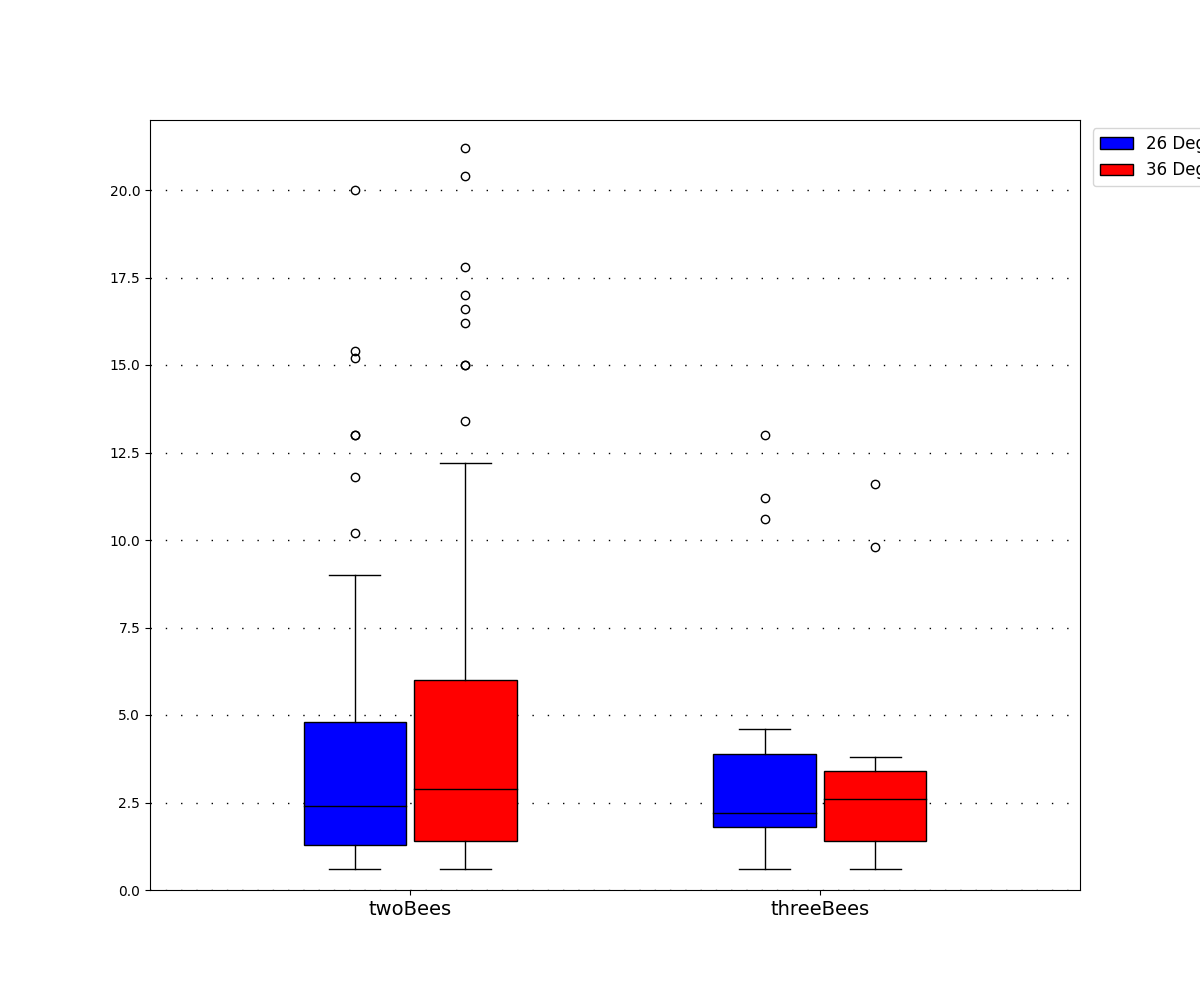
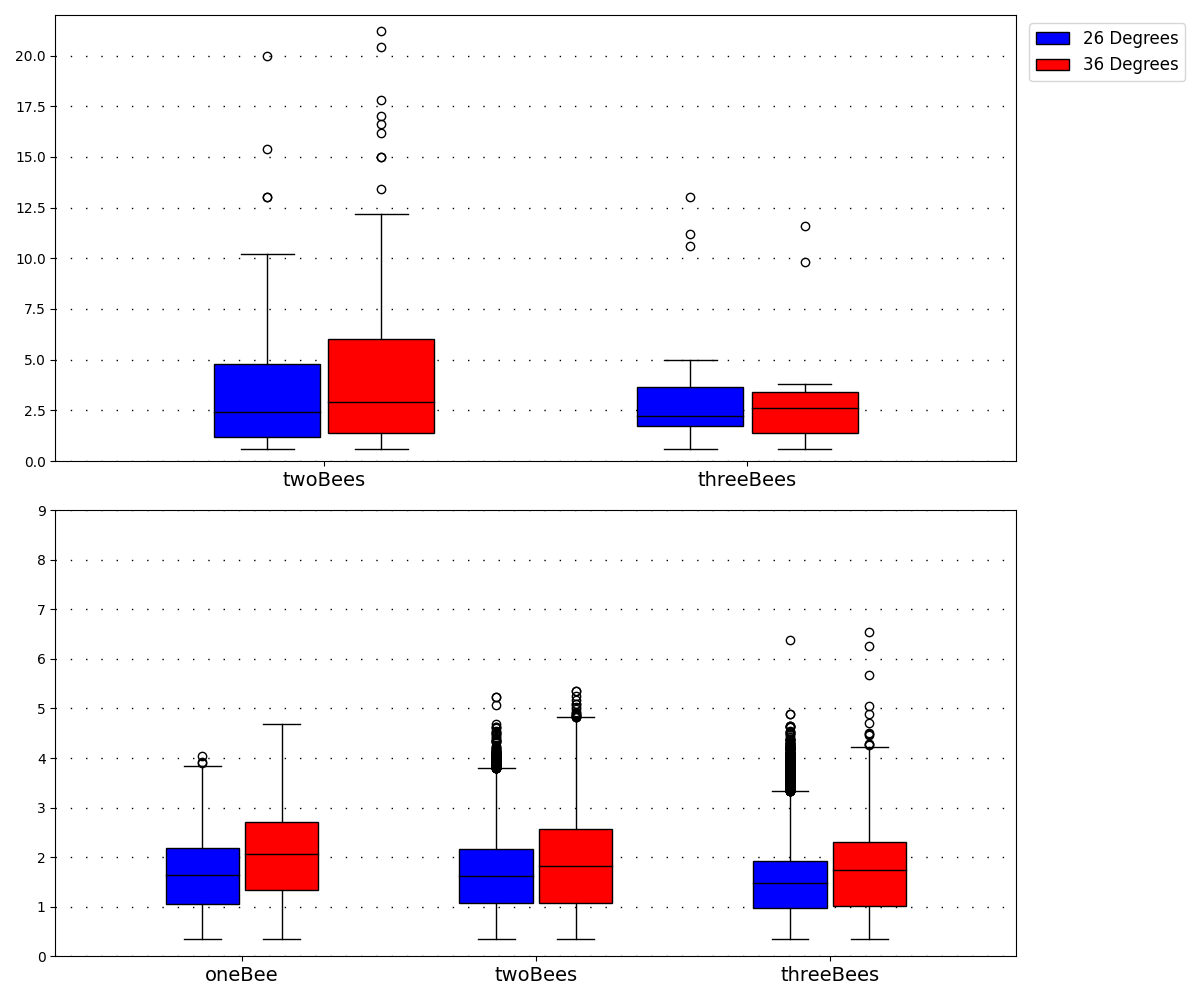
Calculated speed for the different sized groups of bees

diff --git a/HuberBoxDataProcessing/Huberbox.py b/HuberBoxDataProcessing/Huberbox.py
@@ -8,8 +8,9 @@ import scipy.stats as stats
 from OneBee import dfProcessingSingle
 from TwoBees import dfProcessingTwo
 from ThreeBees import dfProcessingThree
-from HuberboxCalculations import *
-from plotting_Huberbox import boxplotTime
+from HuberboxCalculationsTime import *
+from plotting_Huberbox import boxplot
+from HuberboxCalculationsSpeed import *
 
 
 def DataProcessing():
@@ -61,16 +62,63 @@ def CalcSocialTogether():
 
     return np_array_two_26, np_array_two_36, np_array_three_26, np_array_three_36
 
+def CalcSpeed():
+    path = os.path.dirname(os.path.realpath(__file__))
+
+    speedOne26array = np.array([])
+    speedOne36array = np.array([])
+    speedTwo26array = np.array([])
+    speedTwo36array = np.array([])
+    speedThree26array = np.array([])
+    speedThree36array = np.array([])
+
+    for filename in os.listdir(os.path.join(os.path.dirname(path), 'data', 'processedData', 'OneBee', '26Degree')):
+        speedValues = speedOne26(filename)
+        speedOne26array = np.hstack((speedOne26array, speedValues))
+
+    for filename in os.listdir(os.path.join(os.path.dirname(path), 'data', 'processedData', 'OneBee', '36Degree')):
+        speedValues = speedOne36(filename)
+        speedOne36array = np.hstack((speedOne36array, speedValues))
+
+    for filename in os.listdir(os.path.join(os.path.dirname(path), 'data', 'processedData', 'TwoBees', '26Degree')):
+        speedValues = speedTwo26(filename)
+        speedTwo26array = np.hstack((speedTwo26array, speedValues))
+
+    for filename in os.listdir(os.path.join(os.path.dirname(path), 'data', 'processedData', 'TwoBees', '36Degree')):
+        speedValues = speedTwo36(filename)
+        speedTwo36array = np.hstack((speedTwo36array, speedValues))
+
+    for filename in os.listdir(os.path.join(os.path.dirname(path), 'data', 'processedData', 'ThreeBees', '26Degree')):
+        speedValues = speedThree26(filename)
+        speedThree26array = np.hstack((speedThree26array, speedValues))
+
+    for filename in os.listdir(os.path.join(os.path.dirname(path), 'data', 'processedData', 'ThreeBees', '36Degree')):
+        speedValues = speedThree36(filename)
+        speedThree36array = np.hstack((speedThree36array, speedValues))
+ 
+    return speedOne26array, speedOne36array, speedTwo26array, speedTwo36array, speedThree26array, speedThree36array
+        
+
+
 def main():
     DataProcessing()
     np_array_two_26, np_array_two_36, np_array_three_26, np_array_three_36 = CalcSocialTogether()
+    speedOne26array, speedOne36array, speedTwo26array, speedTwo36array, speedThree26array, speedThree36array = CalcSpeed()
 
-    plot1 = [np_array_two_26, np_array_three_26]
-    plot2 = [np_array_two_36, np_array_three_36]
-    x_axis = np.arange(len(plot1))
-    labels = ['twoBees', 'threeBees']
+    plotA1 = [np_array_two_26, np_array_three_26]
+    plotA2 = [np_array_two_36, np_array_three_36]
+    plotB1 = [speedOne26array, speedTwo26array, speedThree26array]
+    plotB2 = [speedOne36array, speedTwo36array, speedThree36array]
+    x_axis_A = np.arange(len(plotA1))
+    x_axis_B = np.arange(len(plotB1))
+    labels_A = ['twoBees', 'threeBees']
+    labels_B = ['oneBee', 'twoBees', 'threeBees']
     
-    boxplotTime(plot1, plot2, x_axis=x_axis, label=labels)
+    boxplot(
+        listA1=plotA1, listA2=plotA2, x_axis_A=x_axis_A, label_A=labels_A,
+        listB1=plotB1, listB2=plotB2, x_axis_B=x_axis_B, label_B=labels_B
+        )
+        
     for i in [
         (np_array_two_26, np_array_two_36), 
         (np_array_two_26, np_array_three_26), 

diff --git a/HuberBoxDataProcessing/HuberboxCalculationsSpeed.py b/HuberBoxDataProcessing/HuberboxCalculationsSpeed.py
@@ -1,0 +1,101 @@
+import os
+
+import pandas as pd
+import numpy as np
+
+
+def speedOne26(filename):
+
+    path = os.path.dirname(os.path.realpath(__file__))
+
+    df = pd.read_csv(os.path.join(os.path.dirname(path), 'data', 'processedData', 'OneBee', '26Degree', filename), sep=';', encoding='utf-8')
+
+    speedValues = df['distancePerSec'].to_numpy()
+    speedValues = np.setdiff1d(speedValues, np.array([0]))
+
+    return speedValues
+
+def speedOne36(filename):
+
+    path = os.path.dirname(os.path.realpath(__file__))
+
+    df = pd.read_csv(os.path.join(os.path.dirname(path), 'data', 'processedData', 'OneBee', '36Degree', filename), sep=';', encoding='utf-8')
+
+    speedValues = df['distancePerSec'].to_numpy()
+    speedValues = np.setdiff1d(speedValues, np.array([0]))
+
+    return speedValues
+
+def speedTwo26(filename):
+
+    path = os.path.dirname(os.path.realpath(__file__))
+
+    df = pd.read_csv(os.path.join(os.path.dirname(path), 'data', 'processedData', 'TwoBees', '26Degree', filename), sep=';', encoding='utf-8')
+
+    df_check = df[(df['distancePerSec1'] > 5) | (df['distancePerSec2'] > 5)]
+    print(df_check)
+    print(filename)
+
+    speedValues1 = df['distancePerSec1'].to_numpy()
+    speedValues2 = df['distancePerSec2'].to_numpy()
+    speedValues = np.hstack((speedValues1, speedValues2))
+    speedValues = np.setdiff1d(speedValues, np.array([0]))
+
+    return speedValues
+
+
+def speedTwo36(filename):
+    path = os.path.dirname(os.path.realpath(__file__))
+
+    df = pd.read_csv(os.path.join(os.path.dirname(path), 'data', 'processedData', 'TwoBees', '36Degree', filename), sep=';', encoding='utf-8')
+
+    df_check = df[(df['distancePerSec1'] > 5) | (df['distancePerSec2'] > 5)]
+    print(df_check)
+    print(filename)
+
+    speedValues1 = df['distancePerSec1'].to_numpy()
+    speedValues2 = df['distancePerSec2'].to_numpy()
+    speedValues = np.hstack((speedValues1, speedValues2))
+    speedValues = np.setdiff1d(speedValues, np.array([0]))
+
+    return speedValues
+
+
+def speedThree26(filename):
+
+    path = os.path.dirname(os.path.realpath(__file__))
+
+    df = pd.read_csv(os.path.join(os.path.dirname(path), 'data', 'processedData', 'ThreeBees', '26Degree', filename), sep=';', encoding='utf-8')
+
+    df_check = df[(df['distancePerSec1'] > 5) | (df['distancePerSec2'] > 5) | (df['distancePerSec3'] > 5)]
+    print(df_check)
+    print(filename)
+
+    speedValues1 = df['distancePerSec1'].to_numpy()
+    speedValues2 = df['distancePerSec2'].to_numpy()
+    speedValues3 = df['distancePerSec3'].to_numpy()
+    speedValues = np.hstack((speedValues1, speedValues2))
+    speedValues = np.hstack((speedValues, speedValues3))
+    speedValues = np.setdiff1d(speedValues, np.array([0]))
+
+    return speedValues
+
+def speedThree36(filename):
+
+    path = os.path.dirname(os.path.realpath(__file__))
+
+    df = pd.read_csv(os.path.join(os.path.dirname(path), 'data', 'processedData', 'ThreeBees', '36Degree', filename), sep=';', encoding='utf-8')
+
+
+    df_check = df[(df['distancePerSec1'] > 5) | (df['distancePerSec2'] > 5) | (df['distancePerSec3'] > 5)]
+    print(df_check)
+    print(filename)
+
+    speedValues1 = df['distancePerSec1'].to_numpy()
+    speedValues2 = df['distancePerSec2'].to_numpy()
+    speedValues3 = df['distancePerSec3'].to_numpy()
+    speedValues = np.hstack((speedValues1, speedValues2))
+    speedValues = np.hstack((speedValues, speedValues3))
+    speedValues = np.setdiff1d(speedValues, np.array([0]))
+
+    return speedValues

diff --git a/HuberBoxDataProcessing/plotting_Huberbox.py b/HuberBoxDataProcessing/plotting_Huberbox.py
@@ -20,30 +20,51 @@ def plot_speed_single(x_axis, data, filename):
         
     plt.savefig(os.path.join(path, 'graphs', filename))
 
-def boxplotTime(list1, list2, x_axis, label):
+def boxplot(listA1, listA2, x_axis_A, label_A, listB1, listB2, x_axis_B, label_B):
     path = os.path.dirname(os.path.realpath(__file__))
     WIDTH = 0.25
+    
 
-    fig0, ax0 = plt.subplots(figsize=(12, 10))
+    fig0, (ax0, ax1) = plt.subplots(2, 1, figsize=(12, 10))
+    AXIS = (ax0, ax1)
     ax0.set_ylim(0, 22)
-    ax0.grid(which='major', axis='y', linewidth=1, linestyle=(0, (1, 10)), color='black')
+    ax1.set_ylim(0, 9)
+    
+    for ax in AXIS:
+        ax.grid(which='major', axis='y', linewidth=1, linestyle=(0, (1, 10)), color='black')
 
-    plotd1 = plt.boxplot(list1, positions=x_axis - WIDTH/2 - 0.01, widths=WIDTH, notch=False, patch_artist=True,
+    plota1 = ax0.boxplot(listA1, positions=x_axis_A - WIDTH/2 - 0.01, widths=WIDTH, notch=False, patch_artist=True,
                 boxprops=dict(facecolor='blue', color='k'),
                 capprops=dict(color='k'),
                 whiskerprops=dict(color='k'),
                 flierprops=dict(color='k', markeredgecolor='k'),
                 medianprops=dict(color='k'))
 
-    plotd2 = plt.boxplot(list2, positions=x_axis + WIDTH/2 + 0.01, widths=WIDTH, notch=False, patch_artist=True,
+    plota2 = ax0.boxplot(listA2, positions=x_axis_A + WIDTH/2 + 0.01, widths=WIDTH, notch=False, patch_artist=True,
                 boxprops=dict(facecolor='red', color='k'),
                 capprops=dict(color='k'),
                 whiskerprops=dict(color='k'),
                 flierprops=dict(color='k', markeredgecolor='k'),
                 medianprops=dict(color='k'))
 
-    plt.xticks(ticks=x_axis, labels=label, fontsize=14)
-    plt.legend([plotd1["boxes"][0], plotd2["boxes"][0]], ['26 Degrees', '36 Degrees'], bbox_to_anchor=(1.005, 1), loc='upper left', fontsize=12)
+    plotb1 = ax1.boxplot(listB1, positions=x_axis_B - WIDTH/2 - 0.01, widths=WIDTH, notch=False, patch_artist=True,
+                boxprops=dict(facecolor='blue', color='k'),
+                capprops=dict(color='k'),
+                whiskerprops=dict(color='k'),
+                flierprops=dict(color='k', markeredgecolor='k'),
+                medianprops=dict(color='k'))
+
+    plotb2 = ax1.boxplot(listB2, positions=x_axis_B + WIDTH/2 + 0.01, widths=WIDTH, notch=False, patch_artist=True,
+                boxprops=dict(facecolor='red', color='k'),
+                capprops=dict(color='k'),
+                whiskerprops=dict(color='k'),
+                flierprops=dict(color='k', markeredgecolor='k'),
+                medianprops=dict(color='k'))
 
 
+    ax0.set_xticks(ticks=x_axis_A, labels=label_A, fontsize=14)
+    ax1.set_xticks(ticks=x_axis_B, labels=label_B, fontsize=14)
+    ax0.legend([plota1["boxes"][0], plota2["boxes"][0]], ['26 Degrees', '36 Degrees'], bbox_to_anchor=(1.005, 1), loc='upper left', fontsize=12)
+
+    fig0.tight_layout()
     plt.savefig(os.path.join(os.path.dirname(path), 'graphs', 'Boxplot_TimeTogether.png'))

diff --git a/HuberBoxDataProcessing/ThreeBees.py b/HuberBoxDataProcessing/ThreeBees.py
@@ -34,6 +34,9 @@ def dfProcessingThree(filename: str, number, deg):
     df['angleGrad1'] = abs(df['bee1_p+1'] - df['bee1_p']) * (180/math.pi)
     df['angleGrad2'] = abs(df['bee2_p+1'] - df['bee2_p']) * (180/math.pi)
     df['angleGrad3'] = abs(df['bee3_p+1'] - df['bee3_p']) * (180/math.pi)
+    df['angleGrad1'] = df['angleGrad1'].apply(lambda x: 360-x if x > 180 else x)
+    df['angleGrad2'] = df['angleGrad2'].apply(lambda x: 360-x if x > 180 else x)
+    df['angleGrad3'] = df['angleGrad3'].apply(lambda x: 360-x if x > 180 else x)
 
     df['angleDistance1_2'] = df.apply(lambda x: calcDistanceAngle(x['bee1_p'], x['bee2_p']), axis=1)
     df['angleDistGrad1_2'] = df['angleDistance1_2'].apply(lambda x: x * (180/math.pi))
@@ -64,6 +67,11 @@ def dfProcessingThree(filename: str, number, deg):
     df['BeeNotMove1'] = df['distancePerSec1'].apply(lambda x: 1 if x <= 0.35 else 0)
     df['BeeNotMove2'] = df['distancePerSec2'].apply(lambda x: 1 if x <= 0.35 else 0)
     df['BeeNotMove3'] = df['distancePerSec3'].apply(lambda x: 1 if x <= 0.35 else 0)
+
+    df['distancePerSec1'] = df['distancePerSec1'].apply(lambda x: 0 if x <= 0.35 else x)
+    df['distancePerSec2'] = df['distancePerSec2'].apply(lambda x: 0 if x <= 0.35 else x)
+    df['distancePerSec3'] = df['distancePerSec3'].apply(lambda x: 0 if x <= 0.35 else x)
+
 
     df['meanDist'] = (df['distBees1_2'] + df['distBees1_3'] + df['distBees2_3'])/3
     df['BeesClose1_2_3'] = df['meanDist'].apply(lambda x: 1 if x <= 2.2 else 0)

diff --git a/HuberBoxDataProcessing/TwoBees.py b/HuberBoxDataProcessing/TwoBees.py
@@ -27,6 +27,8 @@ def dfProcessingTwo(filename: str, number, deg):
 
     df['angleGrad1'] = abs(df['bee1_p+1'] - df['bee1_p']) * (180/math.pi)
     df['angleGrad2'] = abs(df['bee2_p+1'] - df['bee2_p']) * (180/math.pi)
+    df['angleGrad1'] = df['angleGrad1'].apply(lambda x: 360-x if x > 180 else x)
+    df['angleGrad2'] = df['angleGrad2'].apply(lambda x: 360-x if x > 180 else x)
 
     df['angleDistance'] = df.apply(lambda x: calcDistanceAngle(x['bee1_p'], x['bee2_p']), axis=1)
     df['angleDistGrad'] = df['angleDistance'].apply(lambda x: x * (180/math.pi))
@@ -42,6 +44,8 @@ def dfProcessingTwo(filename: str, number, deg):
     df['BeeNotMove1'] = df['distancePerSec1'].apply(lambda x: 1 if x <= 0.35 else 0)
     df['BeeNotMove2'] = df['distancePerSec2'].apply(lambda x: 1 if x <= 0.35 else 0)
     df['meanSpeed'] = (df['distancePerSec1'] + df['distancePerSec2'])/2
+    df['distancePerSec1'] = df['distancePerSec1'].apply(lambda x: 0 if x <= 0.35 else x)
+    df['distancePerSec2'] = df['distancePerSec2'].apply(lambda x: 0 if x <= 0.35 else x)
 
     df['BeesTogether'] = df['distBees'].apply(lambda x: 1 if x <=2.2 else 0)
     df['socialTogether'] = df.apply(

diff --git a/HuberBoxDataProcessing/OneBee.py b/HuberBoxDataProcessing/OneBee.py
@@ -21,6 +21,7 @@ def dfProcessingSingle(filename: str, number, deg):
     df['bee1_r+1'] = df['bee1_r+1']/pxtocm
     df['bee1_r'] = df['bee1_r']/pxtocm
     df['angleGrad'] = abs(df['bee1_p+1'] - df['bee1_p']) * (180/math.pi)
+    df['angleGrad'] = df['angleGrad'].apply(lambda x: 360-x if x > 180 else x)
     
     df.drop(df.tail(1).index, inplace=True)
     df['angleGrad'] = df['angleGrad'].apply(lambda x: 360 - x if x > 200 else x)
@@ -31,6 +32,7 @@ def dfProcessingSingle(filename: str, number, deg):
     df['distancePerSec'] = df['distancePerFrame']/0.2
 
     df['BeeNotMove'] = df['distancePerSec'].apply(lambda x: 1 if x <= 0.35 else 0)
+    df['distancePerSec'] = df['distancePerSec'].apply(lambda x: 0 if x <= 0.35 else x)
     df = df[:-1]
 
     filename = filename.split('.')[0]

diff --git a/HuberBoxDataProcessing/HuberboxCalculationsTime.py b/HuberBoxDataProcessing/HuberboxCalculationsTime.py
@@ -1,12 +1,7 @@
 import os
 
 import pandas as pd
-import scipy.stats as stats
 import numpy as np
-
-import matplotlib.pyplot as plt
-
-from plotting_Huberbox import boxplotTime
 
 path = os.path.dirname(os.path.realpath(__file__))
 
